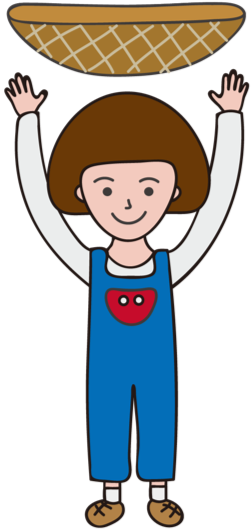
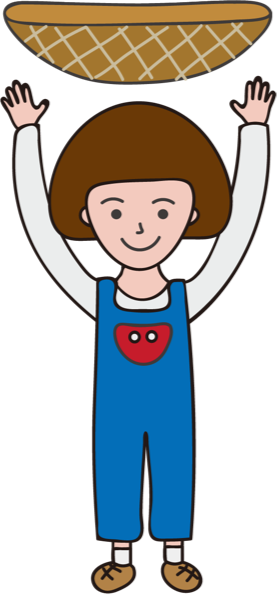
change color

diff --git a/src/containers/game/MenuState.js b/src/containers/game/MenuState.js
@@ -17,18 +17,10 @@ class MenuState extends Phaser.State {
     bg.width = this.world.width
     bg.height = this.world.height
 
-    let title = this.add.text(this.world.centerX, this.world.height * 0.25, '我是豐兒', {
-        fontSize: '40px',
-        fontWeight: 'bold',
+    let remind = this.add.text(this.world.centerX, this.world.centerY, '點擊螢幕開始遊戲!', {
+        fontSize: '24px',
         font: 'Press Start 2P',
-        fill: '#f2bb15'
-    });
-    title.anchor.setTo(0.5, 0.5)
-
-    let remind = this.add.text(this.world.centerX, this.world.centerY, 'hey!', {
-        fontSize: '20px',
-        font: 'Press Start 2P',
-        fill: '#f2bb15'
+        fill: '#50514F'
     });
     remind.anchor.setTo(0.5, 0.5)
 

diff --git a/src/containers/game/index.js b/src/containers/game/index.js
@@ -18,7 +18,7 @@ class gameContainer extends React.Component {
   async componentDidMount () {
     const cookies = new Cookies()
     let checkUser = cookies.get('user')
-    if (checkUser !== null && checkUser !== undefined) {
+    if (true || (checkUser !== null && checkUser !== undefined)) {
       await this.setState({
         game: new Phaser.Game(width, height, Phaser.AUTO, '#game')
       })

diff --git a/src/containers/game/PlayState.js b/src/containers/game/PlayState.js
@@ -42,7 +42,7 @@ class PlayState extends Phaser.State {
     this.title = this.add.text(this.world.centerX, this.world.height * 0.25, '0', {
         fontSize: '40px',
         fontWeight: 'bold',
-        fill: '#f2bb15'
+        fill: '#50514F'
     })
     this.title.anchor.setTo(0.5, 0.5)
 
